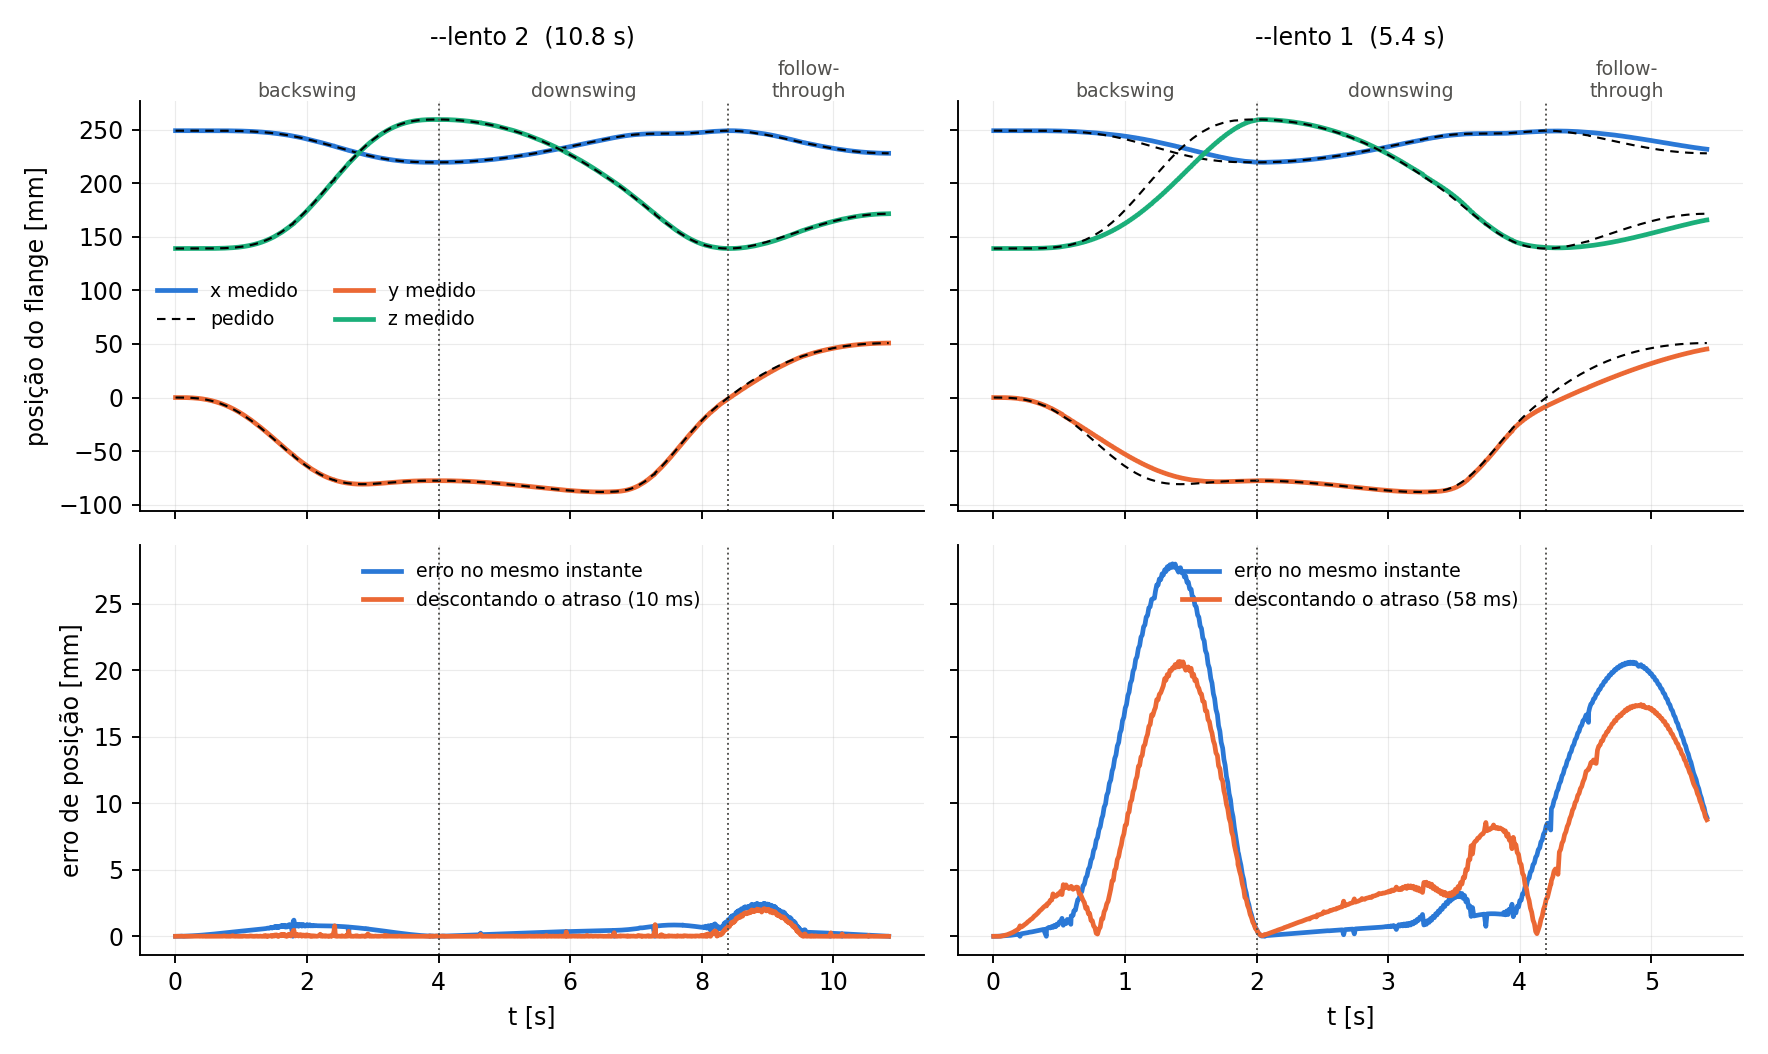
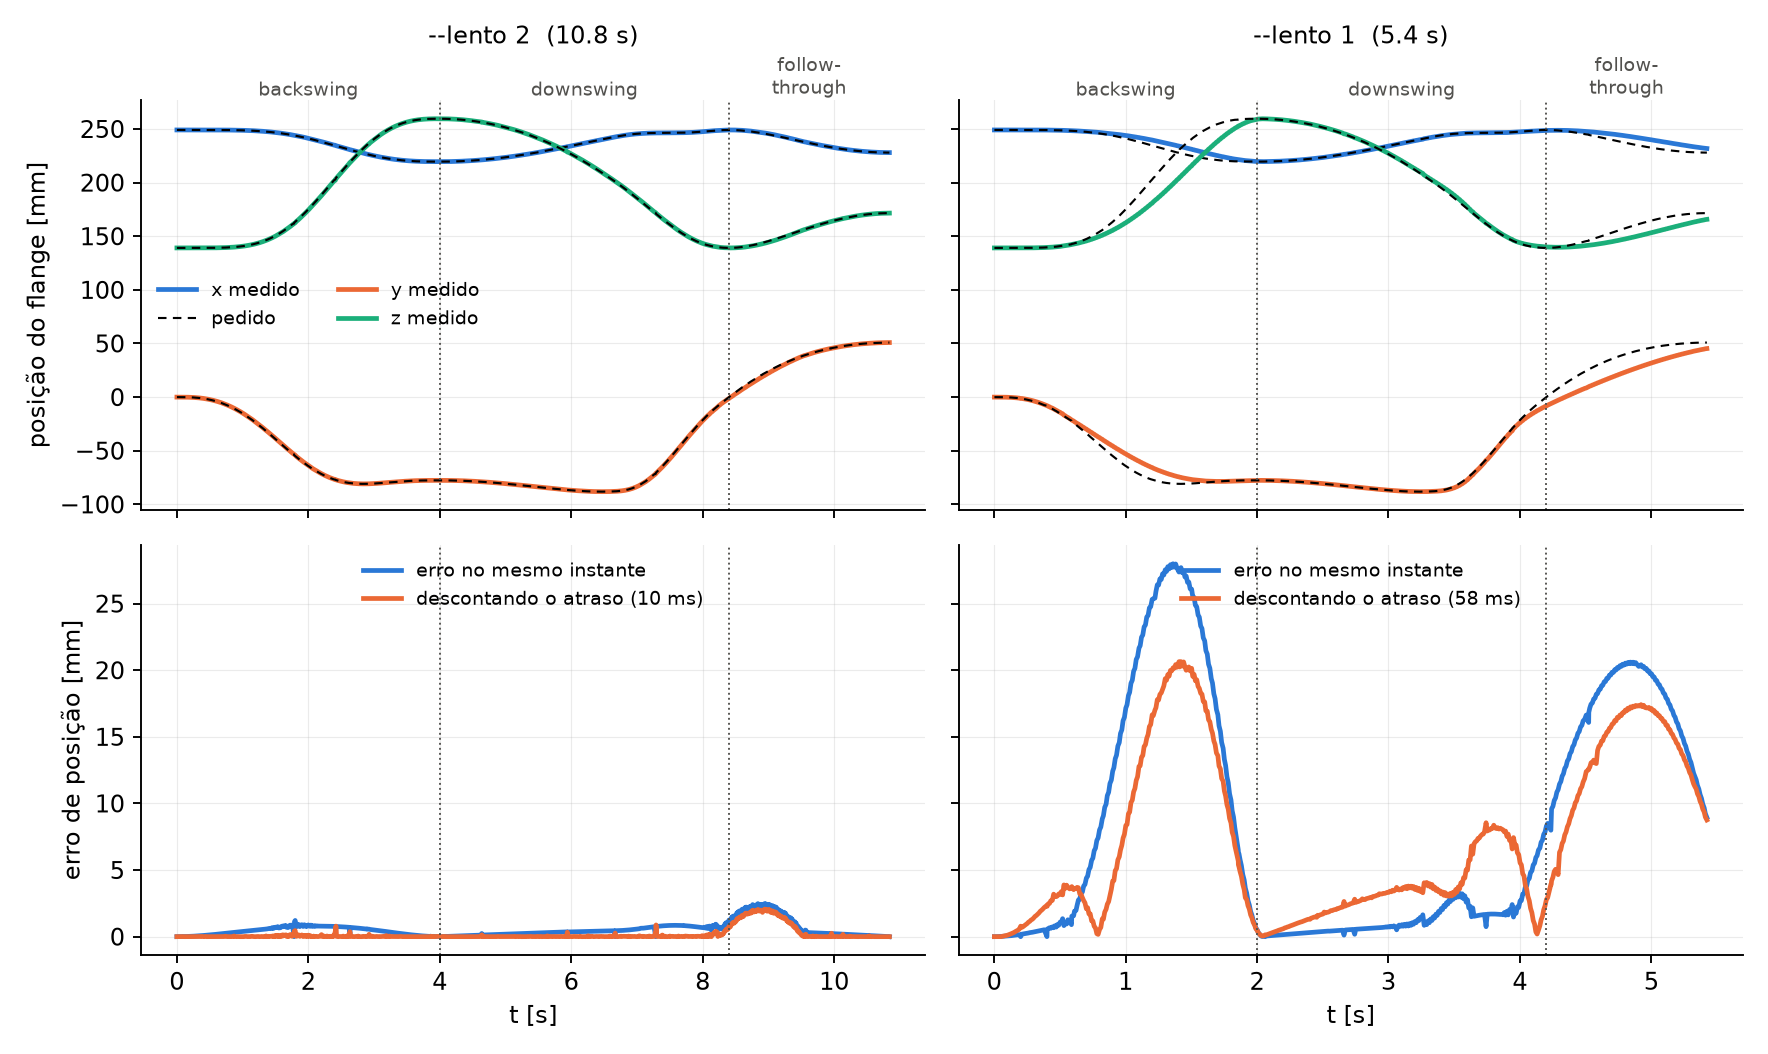
Lab2: figuras do GOLFISTA_PERTO para o relatorio (trajetoria, juntas, 3D, MuJoCo, pedido vs medido, IK); plot_run --golfista-perto

diff --git a/Lab2/src/plot_run.py b/Lab2/src/plot_run.py
@@ -19,7 +19,7 @@ import numpy as np
 
 import config as C
 from kinematics import fk, tool_transform
-from trajectory import DEFAULTS
+from trajectory import DEFAULTS, GOLFISTA_PERTO
 
 HERE = os.path.dirname(os.path.abspath(__file__))
 DATA = os.path.join(HERE, "..", "data")
@@ -45,12 +45,12 @@ def fases(t, lento, t_back=DEFAULTS["t_back"], t_down=DEFAULTS["t_down"]):
     return {"backswing": t <= tb, "downswing": (t > tb) & (t <= tb + td), "follow-through": t > tb + td}, (tb, tb + td)
 
 
-def ensaio(nome, lento):
+def ensaio(nome, lento, preset=DEFAULTS):
     d = np.loadtxt(os.path.join(DATA, nome), delimiter=",")
     t, ref, med = d[:, 0], d[:, 1:4], d[:, 7:10]
     e = np.linalg.norm(med - ref, axis=1)
     tau, e_tau = atraso(t, ref, med)
-    f, cortes = fases(t, lento)
+    f, cortes = fases(t, lento, preset["t_back"], preset["t_down"])
     w = 5                                                    # janela de 0.1 s: os instantes gravados têm jitter
     vel = lambda p: np.linalg.norm(p[2 * w:] - p[:-2 * w], axis=1) / (t[2 * w:] - t[:-2 * w])
     v_ref, v_med = vel(ref), vel(med)
@@ -136,10 +136,19 @@ def v3(nome="run_v3_lento2.csv"):
 def main():
     ap = argparse.ArgumentParser(description=__doc__, formatter_class=argparse.RawDescriptionHelpFormatter)
     ap.add_argument("--v3", action="store_true")
+    ap.add_argument("--golfista-perto", action="store_true", help="ensaios do GOLFISTA_PERTO (13/11) -> report/run_servo_golfista_perto.png")
     args = ap.parse_args()
     if args.v3:
         v3()
         v3("run_v3_lento2_rep2.csv")
+        return
+    if args.golfista_perto:
+        G = GOLFISTA_PERTO
+        ens = [ensaio(f"run_servo_lento{l:g}_golfista_perto.csv", l, G) for l in (2, 1, 0.7)]
+        for nome, l in (("run_servo_lento2_golfista_perto_rep2.csv", 2), ("run_servo_lento1_golfista_perto_rep2.csv", 1),
+                        ("run_servo_lento2_golfista_perto_sem_tampa.csv", 2), ("run_servo_lento2_golfista_perto_tampa.csv", 2)):
+            ensaio(nome, l, G)
+        figura(ens, os.path.join(REPORT, "run_servo_golfista_perto.png"))
         return
     ens = [ensaio("run_servo_lento2_phi50.csv", 2), ensaio("run_servo_lento1_phi50.csv", 1)]
     for nome, lento in (("run_servo_lento2_phi50_rep2.csv", 2), ("run_servo_lento1_phi50_rep2.csv", 1)):
